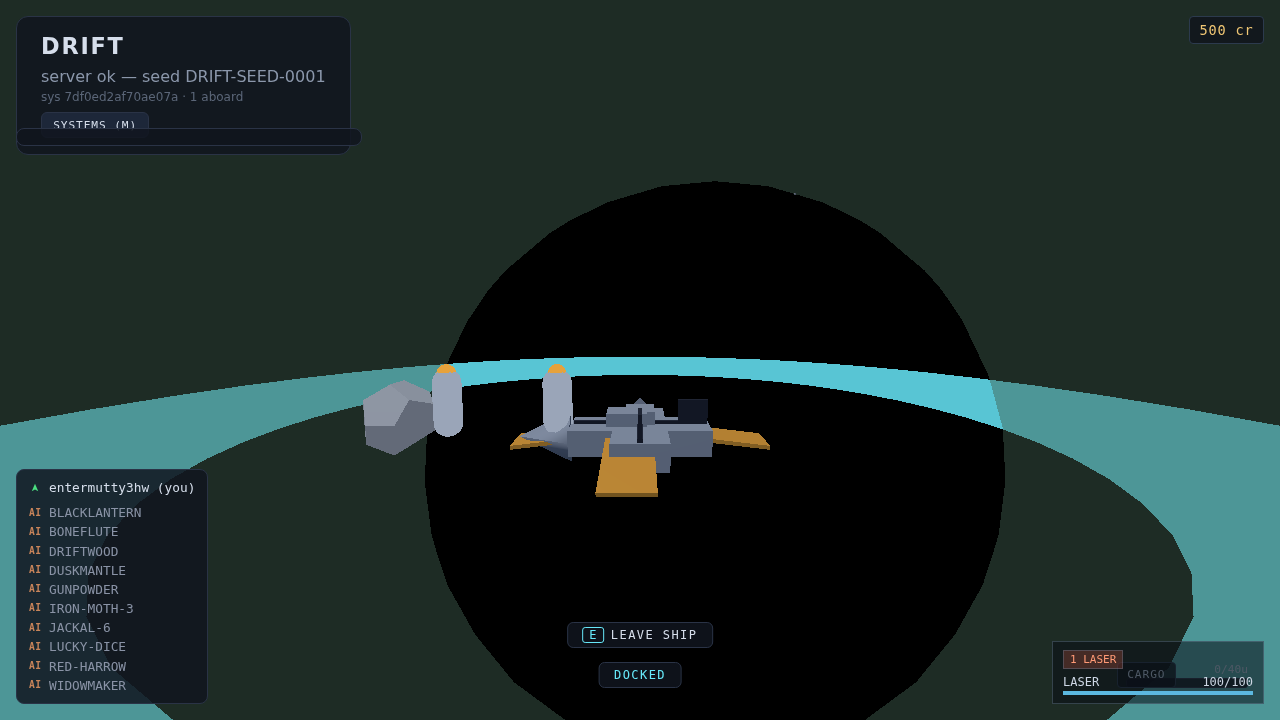
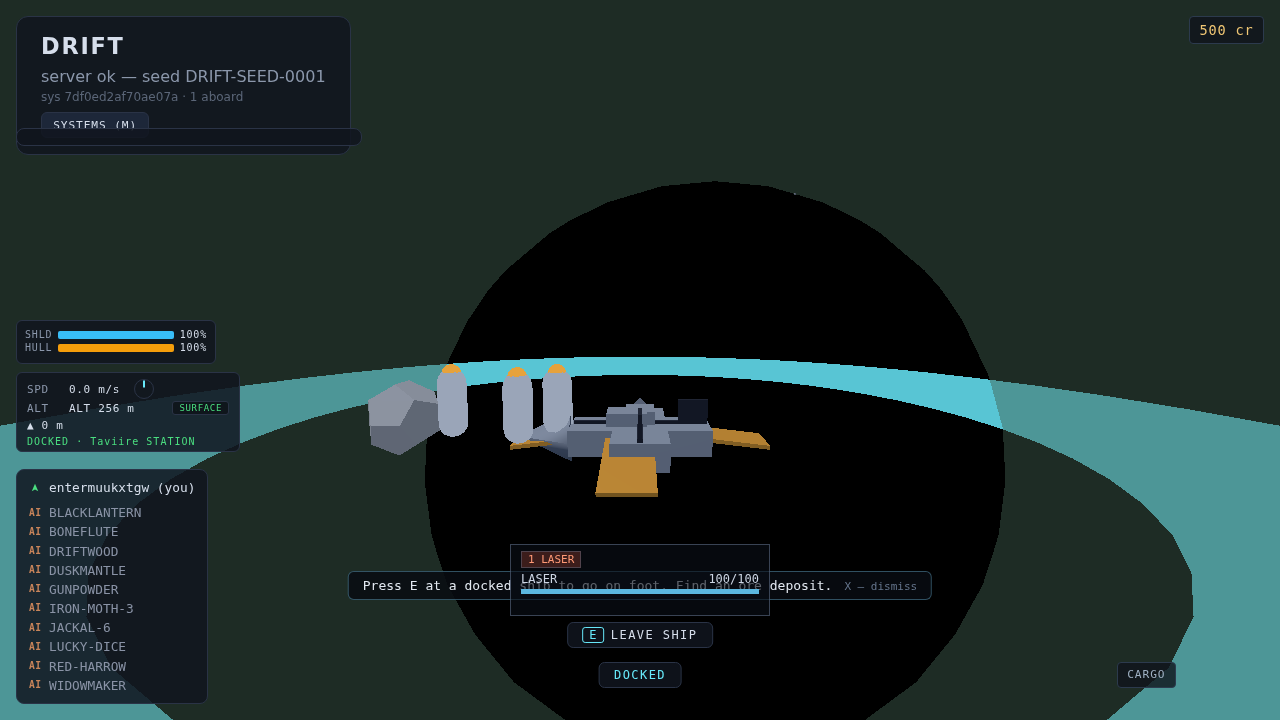
feat(TASK-56): first-launch experience — claims screen, session restore, guidance e2e green
- e2e first-launch.spec.ts: fresh claim → dock spawn (SELF_SHIP probe) →
  guidance step 1 → X dismiss (persisted 4); refresh restore (no claims
  screen); expired-token path (disabled old callsign, no error wall)
- pages/claim.ts: joinButton by role /claim/i, callsignInput by #id
  (form aria-label collided with input label under strict mode)
- close-out: task step pass flags, board passes, LOG.md, STRUCTURE.md,
  handoff deleted

diff --git a/app/tests/e2e/first-launch.spec.ts b/app/tests/e2e/first-launch.spec.ts
@@ -1,0 +1,181 @@
+import path from 'node:path';
+import { expect, test } from './fixtures';
+import { collectErrors, uniqueCallsign } from './helpers';
+import { ClaimPage } from './pages/claim';
+
+/**
+ * TASK-56 — E2E: the first-launch experience (the headline test) + the
+ * returning-player boot paths.
+ *
+ * Test 1 (fresh claim, the headline): fresh context → claims panel (title,
+ * intro, Claim disabled) → type a callsign → the 500 ms debounced
+ * availability probe flips '#claims-status' to 'available' and enables
+ * Claim → click → STRAIGHT into the game at the home-system dock (no
+ * intermediate screen: the docked indicator is up) → guidance step 1 shows
+ * bottom-center → X dismisses it for good (persisted as 4) → screenshot.
+ *
+ * Test 2 (refresh restore): claim via raw REST (the disembark.spec.ts
+ * pattern), seed both localStorage keys, reload → straight into the game
+ * with NO claims screen; the guidance (furthest step) survives the refresh.
+ *
+ * Test 3 (expired token): a stored token /api/session rejects → silently
+ * back to the claims screen with the expired message and the old callsign
+ * prefilled + disabled (no error wall).
+ */
+
+const SHOTS = path.join(__dirname, '../../../.ralph/screenshots');
+
+test('first launch: fresh claim → dock spawn → guidance step 1 → X dismiss', async ({
+  browser,
+  e2eServer,
+}) => {
+  const { baseURL } = e2eServer;
+  test.setTimeout(90_000);
+  const callsign = uniqueCallsign('pilot');
+  const context = await browser.newContext();
+  const page = await context.newPage();
+  const { assertClean } = collectErrors(page);
+  const claim = new ClaimPage(page, baseURL);
+
+  // (1) First load, no token: the claims panel — title, intro, Claim
+  //     disabled until the debounced probe says the callsign is free.
+  await claim.goto();
+  await expect(page.locator('#claims-title')).toHaveText('DRIFT');
+  await expect(page.locator('#claims-intro')).toBeVisible();
+  await expect(page.locator('#claim-button')).toBeDisabled();
+
+  // (2) Live validation: type → 500 ms debounce → probe → 'available'.
+  await claim.callsignInput.fill(callsign);
+  await expect(page.locator('#claims-status')).toHaveText('available', {
+    timeout: 5_000,
+  });
+  await expect(page.locator('#claim-button')).toBeEnabled();
+
+  // (3) Claim → the session is established and the game loads DIRECTLY into
+  //     the home system (the claims screen goes away, no intermediate view).
+  await claim.joinButton.click();
+  await expect(page.locator('#claims-screen')).toHaveCount(0);
+  await expect(claim.playerList).toContainText(`${callsign} (you)`);
+  await expect(page.locator('#sys-id')).toBeVisible();
+
+  // (4) Dock spawn: the starter ship spawns AT the home-system dock — a
+  //     scout hull within the dock's ±100 m square around the system origin
+  //     (TASK-20), rendered on screen (dev-only probe; e2e runs the dev build).
+  await expect
+    .poll(
+      () =>
+        page.evaluate(() => {
+          const probe = window.__SELF_SHIP__?.probe();
+          if (!probe || !probe.pos) return null;
+          const d = Math.hypot(probe.pos.x, probe.pos.y, probe.pos.z);
+          return probe.classId === 'scout' && d <= 200 ? probe : null;
+        }),
+      { timeout: 20_000, message: 'starter ship not spawned at the home-system dock' },
+    )
+    .not.toBeNull();
+
+  // (5) Guidance: step 1's hint line, bottom-center, for a fresh profile.
+  const hint = page.locator('#guidance-hint');
+  await expect(hint).toBeVisible({ timeout: 15_000 });
+  await expect(hint).toContainText('Hold W to fly toward the star');
+
+  // (6) X dismisses the guidance for good — persisted as 4, never returns.
+  await page.keyboard.press('x');
+  await expect(hint).toBeHidden();
+  expect(await page.evaluate(() => localStorage.getItem('drift.guidance'))).toBe('4');
+
+  await page.screenshot({ path: path.join(SHOTS, 'TASK-56-1.png') });
+  assertClean();
+  await context.close();
+});
+
+interface ClaimResponse {
+  token: string;
+  callsign: string;
+  homeSystemId: string;
+}
+
+test('refresh: stored session restores straight into the game (no claims screen)', async ({
+  browser,
+  e2eServer,
+}) => {
+  const { baseURL } = e2eServer;
+  test.setTimeout(60_000);
+  const callsign = uniqueCallsign('rest');
+
+  // Claim via raw REST so the test is self-contained (disembark.spec.ts).
+  const claimRes = await fetch(`${baseURL}/api/callsigns`, {
+    method: 'POST',
+    headers: { 'content-type': 'application/json' },
+    body: JSON.stringify({ callsign }),
+  });
+  expect(claimRes.status).toBe(201);
+  const session = (await claimRes.json()) as ClaimResponse;
+
+  const context = await browser.newContext();
+  const page = await context.newPage();
+  const { assertClean } = collectErrors(page);
+  await page.goto(baseURL, { waitUntil: 'domcontentloaded' });
+  // Both keys: the app reads drift.token first, drift.session.v1 carries
+  // the callsign (and stays the e2e-seeding contract).
+  await page.evaluate((s) => {
+    localStorage.setItem('drift.token', s.token);
+    localStorage.setItem('drift.session.v1', JSON.stringify(s));
+  }, session);
+  await page.reload();
+
+  // Straight into the game: NO claims screen at any point, status line up,
+  // our "(you)" row in the player list — zero form interaction.
+  await expect(page.locator('#sys-id')).toBeVisible({ timeout: 20_000 });
+  await expect(page.locator('#player-list')).toContainText(`${callsign} (you)`);
+  await expect(page.locator('#claims-screen')).toHaveCount(0);
+
+  // The guidance survives the refresh: a fresh profile resumes at step 1.
+  await expect(page.locator('#guidance-hint')).toBeVisible({ timeout: 15_000 });
+
+  await page.screenshot({ path: path.join(SHOTS, 'TASK-56-2.png') });
+  assertClean();
+  await context.close();
+});
+
+test('expired token: silently back to the claims screen (no error wall)', async ({
+  browser,
+  e2eServer,
+}) => {
+  const { baseURL } = e2eServer;
+  const context = await browser.newContext();
+  const page = await context.newPage();
+  const { errors } = collectErrors(page);
+  await page.goto(baseURL, { waitUntil: 'domcontentloaded' });
+  // A stored session whose token /api/session will reject (garbage token).
+  await page.evaluate(() => {
+    localStorage.setItem('drift.token', 'expired-token-0000');
+    localStorage.setItem(
+      'drift.session.v1',
+      JSON.stringify({
+        token: 'expired-token-0000',
+        callsign: 'old-pilot',
+        playerId: 'p0',
+        homeSystemId: '0000000000000000',
+      }),
+    );
+  });
+  await page.goto(`${baseURL}/`, { waitUntil: 'domcontentloaded' });
+
+  // The claims screen comes back: the expired message, the old callsign
+  // prefilled and DISABLED (v1 has no recovery), no error wall anywhere.
+  await expect(page.locator('#claims-screen')).toBeVisible({ timeout: 15_000 });
+  await expect(page.locator('#claims-expired')).toBeVisible();
+  await expect(page.locator('#claims-expired')).toContainText('session expired');
+  const input = page.locator('#callsign-input');
+  await expect(input).toHaveValue('old-pilot');
+  await expect(input).toBeDisabled();
+
+  // The /api/session 401 shows up as console NETWORK noise (a failed
+  // resource load) on this path by design — allow exactly that, nothing else.
+  expect(
+    errors.filter((e) => !e.includes('401 (Unauthorized)')),
+    `console/page errors: ${errors.join(' | ')}`,
+  ).toEqual([]);
+  await context.close();
+});

diff --git a/app/tests/e2e/pages/claim.ts b/app/tests/e2e/pages/claim.ts
@@ -15,7 +15,7 @@ export class ClaimPage extends BasePage {
 
   constructor(page: ConstructorParameters<typeof BasePage>[0], base: string) {
     super(page, base);
-    this.callsignInput = page.getByLabel(/callsign/i);
+    this.callsignInput = page.locator('#callsign-input');
     this.joinButton = page.getByRole('button', { name: /claim/i });
     this.playerList = page.locator('#player-list');
   }

diff --git a/.ralph/STRUCTURE.md b/.ralph/STRUCTURE.md
@@ -19,7 +19,7 @@ Excludes dotfiles, tests, and config.
 │   ├── smoke-task21.mjs      # TASK-21 live smoke: livery REST happy path + Playwright page load/screenshot
 │   └── src/
 │       ├── client/
-│       │   ├── main.tsx      # React shell: #game-canvas, callsign claim form + session boot (WS → join, ?sys= override), presence HUD, live occupancy, chat log (TASK-16); TASK-70: starfield renderer mounted on #game-canvas; TASK-17: ConnectionLostOverlay (#connection-lost-overlay + #reconnect-retry) on 'lost' + "reconnecting…/connection lost" status-line suffixes, resync keeps chat/list UI when the system is unchanged; TASK-71: feeds __DRIFT__ the /api/health seed; TASK-7: M-key/"SYSTEMS (M)" HUD button toggles the star chart panel (src/client/ui); TASK-29.3: self entity_update drives the DOCKED indicator (state/docked isDocked) + WorldManager.setShipPos, snapshot resets the docked state; TASK-31: self entity resolved CHARACTER-first (disembark), E-key handler sends 'exit_ship' while the leave-ship prompt is up, WorldManager.setCharacterPos/clearCharacter bridged; TASK-32: on-foot input path — WASD/Shift/Space pressed-key set → 'input' frames (thrust=fwd/back, yaw=turn, action run/jump) sent on change or at 20 Hz, CharacterPredictor seeded/reconciled from the self character entity_update + 'ack' seqs (new onAck hook), rAF loop drives WorldManager.setCharacterTransform every frame; TASK-33: on-foot interaction — the InteractableRegistry (input/interaction) is the ONE 'interact' dispatch site (E key), the raycast target list tracks every entity_update batch + system snapshots (interactableTargetsFrom), the per-frame resolveInteract (3 m / 30° cone, own-ship pre-filter) + emit-on-change prompt state machine drive the bottom-center InteractPrompt (hidden when not on foot), 'ui-open' server frames logged until TASK-40/53; TASK-39: 'cargo' server frame → openCargoPanel (state/cargo) + #cargo-panel mount, #ship-hud-cargo CARGO button while in-ship (sends 'cargo_open'), E-dispatch carries the raycast distance; TASK-73: flight controls — ship rAF loop reads regimeWiring.remapper.readInput, sends shipInputToPayload frames through the shared InputFrameSender (input/flight-loop), seeds/steps ClientShipPredictor (reconcile on self entity_update + acks) and drives world.setSelfShipTransform every frame; Q-drop gated on-foot-only, E exit-ship only while the DOCKED indicator is up
+│       │   ├── main.tsx      # React shell: #game-canvas, claims screen (TASK-56 ClaimsScreen: stored token → GET /api/session restore → straight into the home system, expired → claims with disabled old callsign) + session boot (WS → join, ?sys= override) + GuidanceHint (guidance events: docked/undocked transitions, disembark, first pickup, first sale), presence HUD, live occupancy, chat log (TASK-16); TASK-70: starfield renderer mounted on #game-canvas; TASK-17: ConnectionLostOverlay (#connection-lost-overlay + #reconnect-retry) on 'lost' + "reconnecting…/connection lost" status-line suffixes, resync keeps chat/list UI when the system is unchanged; TASK-71: feeds __DRIFT__ the /api/health seed; TASK-7: M-key/"SYSTEMS (M)" HUD button toggles the star chart panel (src/client/ui); TASK-29.3: self entity_update drives the DOCKED indicator (state/docked isDocked) + WorldManager.setShipPos, snapshot resets the docked state; TASK-31: self entity resolved CHARACTER-first (disembark), E-key handler sends 'exit_ship' while the leave-ship prompt is up, WorldManager.setCharacterPos/clearCharacter bridged; TASK-32: on-foot input path — WASD/Shift/Space pressed-key set → 'input' frames (thrust=fwd/back, yaw=turn, action run/jump) sent on change or at 20 Hz, CharacterPredictor seeded/reconciled from the self character entity_update + 'ack' seqs (new onAck hook), rAF loop drives WorldManager.setCharacterTransform every frame; TASK-33: on-foot interaction — the InteractableRegistry (input/interaction) is the ONE 'interact' dispatch site (E key), the raycast target list tracks every entity_update batch + system snapshots (interactableTargetsFrom), the per-frame resolveInteract (3 m / 30° cone, own-ship pre-filter) + emit-on-change prompt state machine drive the bottom-center InteractPrompt (hidden when not on foot), 'ui-open' server frames logged until TASK-40/53; TASK-39: 'cargo' server frame → openCargoPanel (state/cargo) + #cargo-panel mount, #ship-hud-cargo CARGO button while in-ship (sends 'cargo_open'), E-dispatch carries the raycast distance; TASK-73: flight controls — ship rAF loop reads regimeWiring.remapper.readInput, sends shipInputToPayload frames through the shared InputFrameSender (input/flight-loop), seeds/steps ClientShipPredictor (reconcile on self entity_update + acks) and drives world.setSelfShipTransform every frame; Q-drop gated on-foot-only, E exit-ship only while the DOCKED indicator is up
 │       │   ├── drift-debug.ts # TASK-71: dev-only window.__DRIFT__ hook (import.meta.env.DEV gate, never ships) — ready/seed + starChart()/planetList() derived from the server seed, for the two-client determinism e2e
 │       │   ├── char-debug.ts # TASK-32: dev-only window.__CHAR__ hook (import.meta.env.DEV gate, never ships) — last SERVER-authoritative self-character pos/rot (10 Hz entity_update) + last input ack seq, for the on-foot e2e (one connection per player → no second raw client)
 │       │   ├── deposits-debug.ts # TASK-37: dev-only window.__DEPOSITS__ hook (import.meta.env.DEV gate, never ships) — deposits() lazily returns the WorldManager's rendered ore rocks (OreRockView[]), bound once after world creation (read-through the ref, so a seed-corrected re-creation stays live)
@@ -42,7 +42,8 @@ Excludes dotfiles, tests, and config.
 │       │   │   ├── presence.ts     # TASK-15: PresenceStore — snapshot + join/leave events, self "(you)", lastSeen, occupancy, toast events (no emit on unchanged snapshots); TASK-17: 'reconnected' toast
 │       │   │   ├── session.ts      # TASK-15/17: ClientSession — browser WS client, hello→auth(token), joinSystem → enter_system snapshot; TASK-17: lazy dial, ConnectionState (connecting/connected/reconnecting/lost), auto-retry 1 s backoff capped 5 s, 30 s 'lost' window + retryNow(), onSnapshot(snapshot, reconnect) full resync (prediction/buffers/presence rebuilt, chat merged)
 │       │   │   └── chat.ts         # TASK-16/17: ChatStore — 100-msg ring buffer, loadSnapshot (system-change clear + ts watermark), emit only on change; TASK-17: mergeSnapshot (append only newer-than-tail, no full clear on resync)
-│       │   │   └── settings-api.ts # TASK-55: fetchSettings/putSettings — failure-tolerant REST wrappers for GET/PUT /api/players/settings (bearer token passed per call, never held)
+│       │   │   ├── settings-api.ts # TASK-55: fetchSettings/putSettings — failure-tolerant REST wrappers for GET/PUT /api/players/settings (bearer token passed per call, never held)
+│       │   │   └── session-boot.ts # TASK-56: session storage + restore — TOKEN_KEY ('drift.token') / SESSION_KEY ('drift.session.v1'), readStoredToken (token key, legacy session-object fallback) / readStoredCallsign / saveSession (both keys) / clearStoredSession; restoreSession(token) → GET /api/session → {ok, session} or {ok:false} for ANY failure (401/5xx/network/malformed — no error wall)
 │       │   ├── state/
 │       │   │   ├── warp.ts       # TASK-7/8: warp event bus + phase store (idle/warping-in/awaiting/warp-out) + WarpController — idle→warping-in(2s)→awaiting(net)→warp-out(2s)→idle, failure→idle+onFailed('System full' toast), injectable delay
 │       │   │   ├── regime.ts     # TASK-25: client regime tracker — local regimeFor prediction + server authority (self entity_update flightRegime), 500 ms divergence snap + debug warn (space/atmosphere only — surface is server-authoritative: client has no terrain yet), injectable clock/warn, onRegimeChange
@@ -84,6 +85,9 @@ Excludes dotfiles, tests, and config.
 │       │   │   ├── reentry-tint.tsx # TASK-28.2: cosmetic orange rim overlay — fixed full-screen radial-gradient (z 80, pointer-events none, aria-hidden), opacity = live tint, null at tint ≤ 0
 │       │   │   ├── docked-indicator.tsx # TASK-29.3: single #docked-indicator DOM node — small monospace 'DOCKED' stub (z 85, pointer-events none, role=status), rendered while state/docked is true, null otherwise; full ship HUD is TASK-51
 │       │   │   ├── leave-ship-prompt.tsx # TASK-31: bottom-center 'E — LEAVE SHIP' prompt, rendered exactly while the docked store is true (null otherwise)
+│       │   │   ├── claims-screen.tsx # TASK-56: the ONLY entry to a session — centered DRIFT panel over the starfield: 3-step intro (4 s auto-advance, skippable), #callsign-input live validation (format immediate + 500 ms debounced GET /api/callsigns/availability → #claims-status 'available' green / 'taken' red), #claim-button disabled until valid+available → POST /api/callsigns → saveSession → onClaimed (straight into the home-system dock); expired mode: old callsign prefilled + disabled, 'session expired — claim a new callsign'
+│       │   │   ├── guidance.ts       # TASK-56: first-launch guidance — pure guidanceAdvance(state, event, now) machine (docked/undocked/disembark/pickup/sale/dismiss; spawn-dock edge: a dock counts only after an 'undocked' — the starter ship is docked at boot) + store (guidanceEvent/guidanceState/guidanceSubscribe, emit-on-change); furthest step persisted in ONE localStorage key 'drift.guidance' (int 1-4, dismissal = 4, never returns); GUIDANCE_TEXTS (4 steps), GUIDANCE_FINALE_MS (5 s auto-hide), guidanceVisibleStep
+│       │   │   └── guidance-hint.tsx # TASK-56: the hint line (#guidance-hint, bottom-center above the interaction line, text + 'X — dismiss' tag) — 5-min per-page-load window (GUIDANCE_WINDOW_MS), X keydown dismissal (suppressed while typing in an input), 250 ms tick for finale/window expiry; pure presentation (machine + persistence in guidance.ts)
 │       │   │   ├── interact-prompt.tsx # TASK-33: bottom-center #interact-prompt '[E] …' affordance — rendered exactly while the per-frame raycast has a target (main.tsx drives the text via the prompt state machine), null (zero cost) otherwise
 │       │   │   ├── cargo-panel.tsx # TASK-39/53: #cargo-panel — thin wrapper over the shared ShipPanel (in-ship hold-only context) or standalone hold view, opened via the menu stack; the only server contact is onMove → 'cargo_transfer'
 │       │   │   ├── dock-panel.tsx  # TASK-40/53: #dock-panel — thin wrapper over the shared ShipPanel (on-foot dock context: Overview / Cargo / Sell tabs), opened by the 'ui-open' frame through the menu stack; sells go onSell → 'sell' frame
@@ -134,10 +138,10 @@ Excludes dotfiles, tests, and config.
 │       │   └── routes/
 │       │       ├── index.ts        # registerApiRoutes(repo, sessions, galaxySeed, shipSwapBus)
 │       │       ├── auth.ts         # TASK-41: shared Bearer extraction + requireAuth (structured 401 reasons)
-│       │       ├── callsigns.ts    # TASK-10: POST /api/callsigns (claim → player + starter ship + session token); RouteDeps (+ optional galaxyRouter, TASK-11)
+│       │       ├── callsigns.ts    # TASK-10: POST /api/callsigns (claim → player + starter ship + session token); RouteDeps (+ optional galaxyRouter, TASK-11); TASK-56: GET /api/callsigns/availability?callsign= (format + unique check, per-IP token bucket 10/s burst 20 → 429 {code:'rate-limited'}, {available, reason?: 'taken'|'invalid-format'})
 │       │       ├── galaxy.ts       # TASK-11: GET /api/galaxy/health (auth) → {shards: [{systemId, name, players, uptimeMs}]}; TASK-7: GET /api/galaxy/overview (auth, ?home=) → 3-system seeded chart, in-process forever cache
 │       │       ├── players.ts      # TASK-41: GET /api/players/me (Bearer → own profile incl. credits)
-│       │       ├── session.ts      # TASK-10: GET /api/session (Bearer → profile, structured 401s)
+│       │       ├── session.ts      # TASK-10: GET /api/session (Bearer → profile, structured 401s); TASK-56: profile also carries playerId + lastSystemId (null in v1 — future last-system memory)
 │       │       ├── ships.ts        # TASK-20/21/23: GET /api/ships, POST /api/ships/buy (docked purchase), POST /api/ships/livery (3-slot hex paint), POST /api/ships/repair (docked, credit cost); TASK-40: POST /api/ships/sell (auth, delegates to shard.handleSell — the SAME handler as the WS 'sell' frame, structured {code} errors)
 │       │       └── dev.ts          # TASK-29: dev-only (non-production) e2e hooks — GET /api/dev/pad-target (deterministic first landable-atmosphere pad), POST /api/dev/teleport {x,y,z} (shard.teleportForTesting, clears held input), TASK-33: POST /api/dev/deposit {x,y,z,quantity?} (shard.addDepositForTesting — an interactable for the interaction e2e before TASK-37's seeded placement); TASK-40: GET /api/dev/terminal-target (first station terminal for the e2e) + POST /api/dev/teleport-char {x,y,z} (shard.teleportCharacterForTesting); TASK-48.2: GET /api/dev/hazard-target (first storm cell in star order over hazardsFor — {systemId, planetId, hazardId, pos, radius}, 404 no-hazard if none)
 │       │   ├── ws.ts         # TASK-9 WS lifecycle: handshake state machine, structured errors, presence, 15s/45s keepalive; TASK-16 chat sanitize → rate-limit → onGameMessage; TASK-17: onGameMessage carries `source: conn` so the shard can attribute inputs and drop stale-conn frames

diff --git a/.ralph/logs/LOG.md b/.ralph/logs/LOG.md
@@ -3,8 +3,11 @@
 `Current Status`
 =================
 **Last Updated:** 2026-10-05
-**Tasks Completed:** 78
+**Tasks Completed:** 79
 **Current Task:** TASK-56 — First-run experience: single load, callsign, onboarding
+
+### 2026-10-05 — TASK-56: First-run experience — claims screen, boot flow, guidance (complete)
+The first-launch experience, end to end. **Server (commit b5fc10b):** `GET /api/callsigns/availability?callsign=` in `routes/callsigns.ts` — format + unique check, per-IP token bucket (10/s, burst 20 → 429 `{code:'rate-limited'}`), returns `{available, reason?: 'taken'|'invalid-format'}` (case-insensitive taken check, 400 on missing query); `GET /api/session` now also carries `playerId` + `lastSystemId: null` (v1 future-proofing); `callsigns.api.test.ts` +6 tests (taken/free/invalid-format/case-insensitivity, 400, rate-limit 429). **Client:** `net/session-boot.ts` — `TOKEN_KEY='drift.token'` / `SESSION_KEY='drift.session.v1'`, `readStoredToken` (token key, legacy session-object fallback) / `readStoredCallsign` / `saveSession` (both keys) / `clearStoredSession`; `restoreSession(token)` → GET /api/session → `{ok:true, session}` or `{ok:false}` for ANY failure (401/5xx/network/malformed). `ui/claims-screen.tsx` — the ONLY entry to a session: centered DRIFT panel (title, 3-step intro 4 s auto-advance skippable via #claims-skip), `#callsign-input` live validation (format via CALLSIGN_PATTERN immediately, 500 ms debounced availability probe → `#claims-status` 'available' green / 'taken' red), `#claim-button` (role name /claim/i, disabled until valid+available) → POST /api/callsigns → saveSession → onClaimed (straight into the home-system dock, no intermediate screen); expired mode: old callsign prefilled + disabled + 'Your session expired. Claim a new callsign.' (no error wall, v1 has no recovery); 409 on submit → taken state. `ui/guidance.ts` — the pure `guidanceAdvance(state, event, now)` machine (events docked/undocked/disembark/pickup/sale/dismiss; the spawn-dock edge: a dock promotes to step 2 only after an 'undocked' — the starter ship is docked at boot) + subscribe/emit store; furthest step persisted in ONE localStorage key `drift.guidance` (int 1-4, dismissal persists 4 — it never comes back); GUIDANCE_TEXTS (fly+chart / E on foot+ore / cargo+sell / 'You are drifting. Good luck.'), GUIDANCE_FINALE_MS (5 s auto-hide), guidanceVisibleStep. `ui/guidance-hint.tsx` — `#guidance-hint` bottom-center at 7.5 rem (above the interaction line), 'X — dismiss' tag, X keydown dismissal (suppressed while typing in an input), 5-min per-page-load window, 250 ms tick. **Boot flow (`main.tsx`):** the old inline ClaimForm removed; `booting` state — stored token → async `restoreSession` → 200 straight into the home system (a 'RESTORING SESSION…' placeholder), failure → `clearStoredSession` + expired claims; WS `onError` → expired path (no error wall); guidance events wired in `useGameSession` (docked transitions around `setDockedIndicator`, disembark on the first on-foot self entity, first pickup when self inventory weight > 0, sale when a 'sell' result has `sold > 0`). **Tests:** 38 new unit tests — `guidance.test.ts` (13: every event sequence, spawn-dock edge, persistence, dismissal), `guidance-hint.test.tsx` (6: window/finale expiry, X dismissal, typing suppression), `claims-screen.test.tsx` (9: live happy-dom render, fake timers + stubbed fetch — format/availability debounce/taken/409/intro auto-advance+skip/expired mode), `session-boot.test.ts` (10: both-key read/save/clear, legacy fallback, restore 200/401/5xx/network/malformed); `pages/claim.ts` page object: `joinButton` → `getByRole('button', {name:/claim/i})`, `callsignInput` → `#callsign-input` (the form's aria-label collided with the input's label under strict mode). **E2E (`tests/e2e/first-launch.spec.ts`, green 23.9 s):** (1) the headline — fresh context → claims panel (DRIFT title, intro, Claim disabled) → type callsign → 500 ms probe flips `#claims-status` to 'available' → Claim → claims screen GONE straight into the game → dock spawn asserted via the dev `__SELF_SHIP__.probe()` (scout hull within the dock's ±100 m square — `#docked-indicator` is for pad-docks, the home dock is a position, not a pad regime) → guidance step 1 visible → X → hint hidden + `localStorage['drift.guidance'] === '4'` → screenshot; (2) refresh restore — raw-REST claim, seed both localStorage keys, reload → `#sys-id` + '(you)' with NO claims screen at any point, guidance survives; (3) expired token — garbage token + seeded callsign → silently back to claims with `#claims-expired` + prefilled disabled input (the /api/session 401 is allow-listed console network noise by design). Screenshots `.ralph/screenshots/TASK-56-1.png` (in-game HUD at the dock) + `TASK-56-2.png` (post-refresh restore, guidance hint up). **Verify:** full `npm run test` green — **177 files / 1592 passed / 1 skipped**; `tests/e2e/first-launch.spec.ts` green 3/3 (23.9 s) + full e2e suite (see background run); `npx tsc --noEmit` clean; eslint + prettier clean on all touched files.
 
 ### 2026-10-05 — TASK-55: Settings — quality presets, sensitivity, reduced motion, persistence (complete)
 The settings panel behind the ESC menu's SETTINGS entry, with per-player persistence and LIVE application (no Apply button). **Step 1 — model + presets (`shared/settings.ts` rewritten):** `PRESETS` table (high 8192/2048 tris · 8 km · 2500 stars · fx 1.0 / medium 2048/512 · 6 km · 1250 · 0.6 / low 512/128 · 4 km · 500 · 0.3, all `shadowless: true`) + `lodRadiiFor` (high = 512/2048/8000 — the pipeline's original constants, so the default is bit-identical; medium 512/1536/6000; low 384/1024/4000); `normalizeSettings` coerces the raw JSON **string** column or parsed objects, field-by-field default fallback; `scaleLookDemand` scales ONLY yaw/pitch/roll clamped to [-1,1] (thrust never); zod `SettingsUpdateSchema` (strict partial) + `applySettingsUpdate`. **Live bridge:** `world/chunks.ts` gained the `liveLod` mutable ref + `setLodRadii()`/`lodRadii()` — the streamer reads radii per chunk generation, never at construction, so a preset change re-classifies chunks on the next generation with **no reload and no pop** (`keepBuiltLod` keeps a full build's LOD when a preset change re-classifies it far; applied to the ACTIVE set loop only — extending it to the horizon loop broke the streaming-benchmark triangle budget and was reverted). `fx.ts` gates every FX spawn on `fxSpawnRate()` (live off the store); `a11y/reduced-motion.ts` gained `setQuality` (re-points the radii) / `setSensitivity` / `applySettings` (boot restore); `WorldManager` reads the preset's `starCount` per world build. **Step 2 — endpoints + persistence:** migration `000005_player_settings.sql` (`players.settings TEXT NOT NULL DEFAULT '{}'`, both drizzle dialects), repo `getPlayerSettings`/`updatePlayerSettings` (JSON string in/out, normalized at the read boundary); `GET/PUT /api/players/settings` (bearer auth; zod partial — bad preset/non-numeric/unknown fields → 400 `invalid-settings`, out-of-range sensitivity CLAMPED not rejected); `GET /api/session` now carries `settings`; client boot (`main.tsx`) fetches + `applySettings` (a restored Low re-tunes the radii live); `net/settings-api.ts` `fetchSettings`/`putSettings`. **Step 3 — panel UI (`ui/settings-panel.tsx`):** four sections — quality preset buttons (`#settings-quality-{high|medium|low}`, `aria-pressed`, IMMEDIATE apply + PUT), sensitivity slider (0.5–2.0 step 0.1, **debounced 300 ms → 1 PUT**, value label), the TASK-54 reduced-motion toggle (kept its exact id/role/aria — the a11y e2e still passes, immediate PUT), the static keybind list (WASD+mouse, E, T, 1/2, M, ESC, F3, Enter — informational, no rebinding in v1), and RESET TO DEFAULTS (one PUT, all three). `esc-menu.tsx` swaps the stub for the panel and passes the session token (no token → local apply only, no PUT). Sensitivity wiring: on-foot yaw demand × live sensitivity in `main.tsx`; ship loop wraps `remapper.readInput` in `scaleLookDemand`; `inputs.ts` left/right look thresholds made INCLUSIVE (`<= -0.5`/`>= 0.5`) so the 0.5× preset's full-hold demand (exactly 0.5) still registers. **Step 4 — tests:** unit — `settings.test.ts` (preset table pinned verbatim, radii, clamp, scale, normalize incl. the JSON-string column, 400/clamp/strict PUT boundary), `chunks.lod-preset.test.ts` (live re-classification, per-preset boundaries, keepBuiltLod no-pop), `fx.quality.test.ts` (1.0 always / 0.3 skip-by-roll / 0.6 boundary), `settings-panel.test.tsx` (6: sections render, preset switch re-tunes `lodRadii()`, **5 drags → 1 PUT**, toggle immediate, reset = 1 PUT + pipeline re-tune, no-token sends nothing), `players.settings.api.test.ts` (defaults, 401, partial merge, 400s, clamp, **PUT Low → /api/session restores Low**, first-join defaults); `inputs.test.ts` +0.5× edge, `esc-menu.test.tsx` updated (`#esc-menu-settings-stub` gone), `repo.test.ts` migration pin 5 → 6. **E2E (`tests/e2e/settings.spec.ts`, green 9.2 s):** claim → pad-teleport → docked boot → ESC → SETTINGS → click LOW → `window.__STREAM__.lodRadii().farMaxM === 4000` (the TASK-55 dev hook — the live re-tune, no reload) + `aria-pressed=true` → GET /api/players/settings shows `low` → slider native-setter to 1.5, past the 300 ms debounce, server row `sensitivity: 1.5` alongside `quality: low`. Screenshot `.ralph/screenshots/TASK-55-1.png` (panel with LOW active over the docked cockpit). **Verify:** full `npm run test` green — **173 files / 1551 passed / 1 skipped**; `tests/e2e/settings.spec.ts` green; `npx tsc --noEmit` clean; eslint + prettier clean on all touched files.
